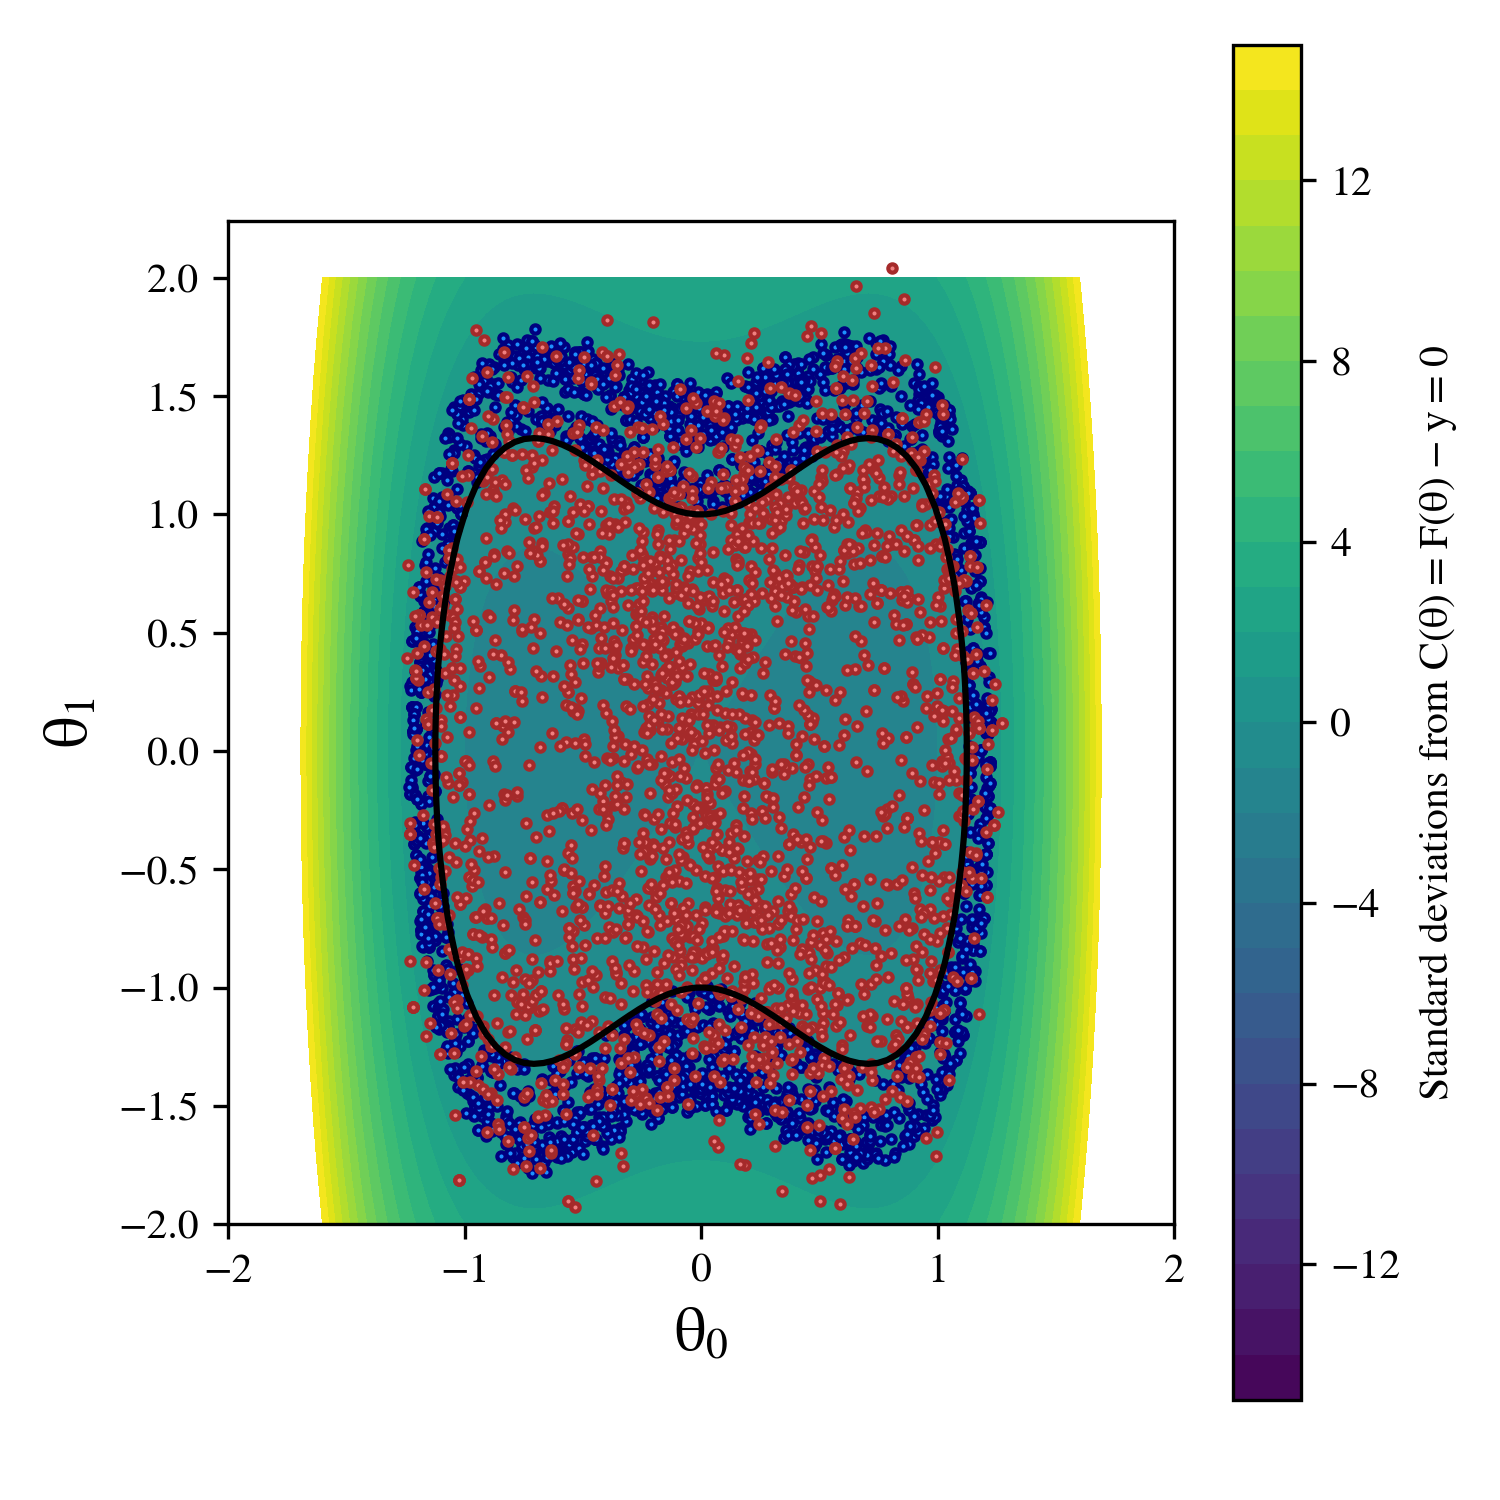
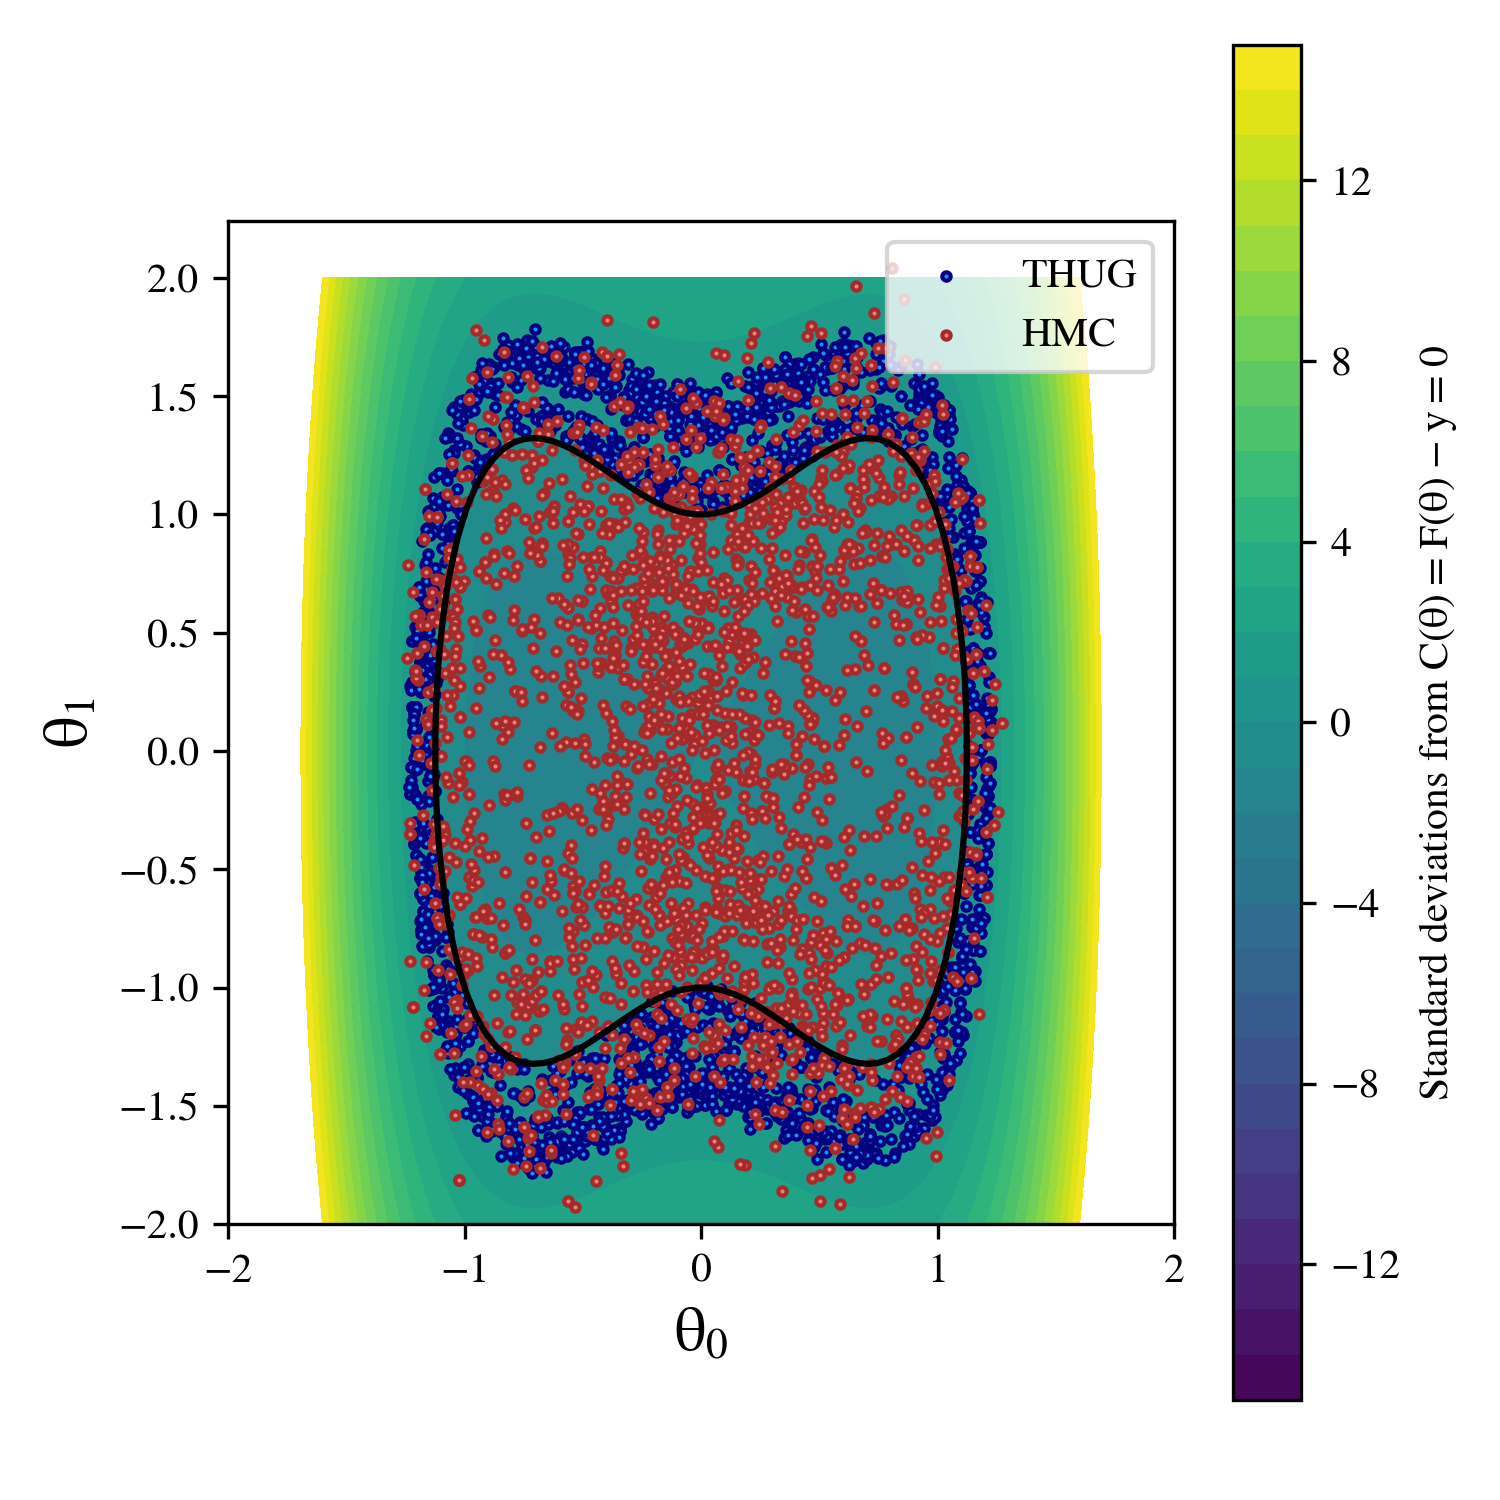
samples plots

Changed region(s): [[0.5827, 0.1533, 0.7667, 0.276]]

diff --git a/visualize_samples.py b/visualize_samples.py
@@ -13,7 +13,7 @@ if __name__ == "__main__":
     B = 20
     N = 2500
     seed = 1234
-    sigma = 1.0
+    sigma = 0.001
     rng = np.random.default_rng(seed=seed)
 
     # Initial point
@@ -42,13 +42,14 @@ if __name__ == "__main__":
     levels = sigma * np.arange(-n_std, n_std+1)
     contours = ax.contourf(XX, YY, ZZ, levels=levels, cmap='viridis')
     ax.contour(XX, YY, ZZ, levels=[0.0], colors='black')
-    ax.scatter(*s_thug.T, s=4, color='dodgerblue', ec='navy')
-    ax.scatter(*s_hmc.T, s=4, color='lightcoral', ec='brown')
+    ax.scatter(*s_thug.T, s=4, color='dodgerblue', ec='navy', label='THUG')
+    ax.scatter(*s_hmc.T, s=4, color='lightcoral', ec='brown', label='HMC')
     ax.set_aspect('equal')
     ax.set_xlabel(r"$\mathregular{\theta_0}$", fontsize=15)
     ax.set_ylabel(r"$\mathregular{\theta_1}$", fontsize=15)
     plt.colorbar(contours, label="Standard deviations from " + r"$\mathregular{C(\theta) = F(\theta) - y = 0}$")
     plt.tight_layout()
+    plt.legend()
     plt.savefig("images/thug_hmc_samples_sigma_{}.png".format(
         str(sigma).replace('.', 'dot')), dpi=300)
     plt.show()
